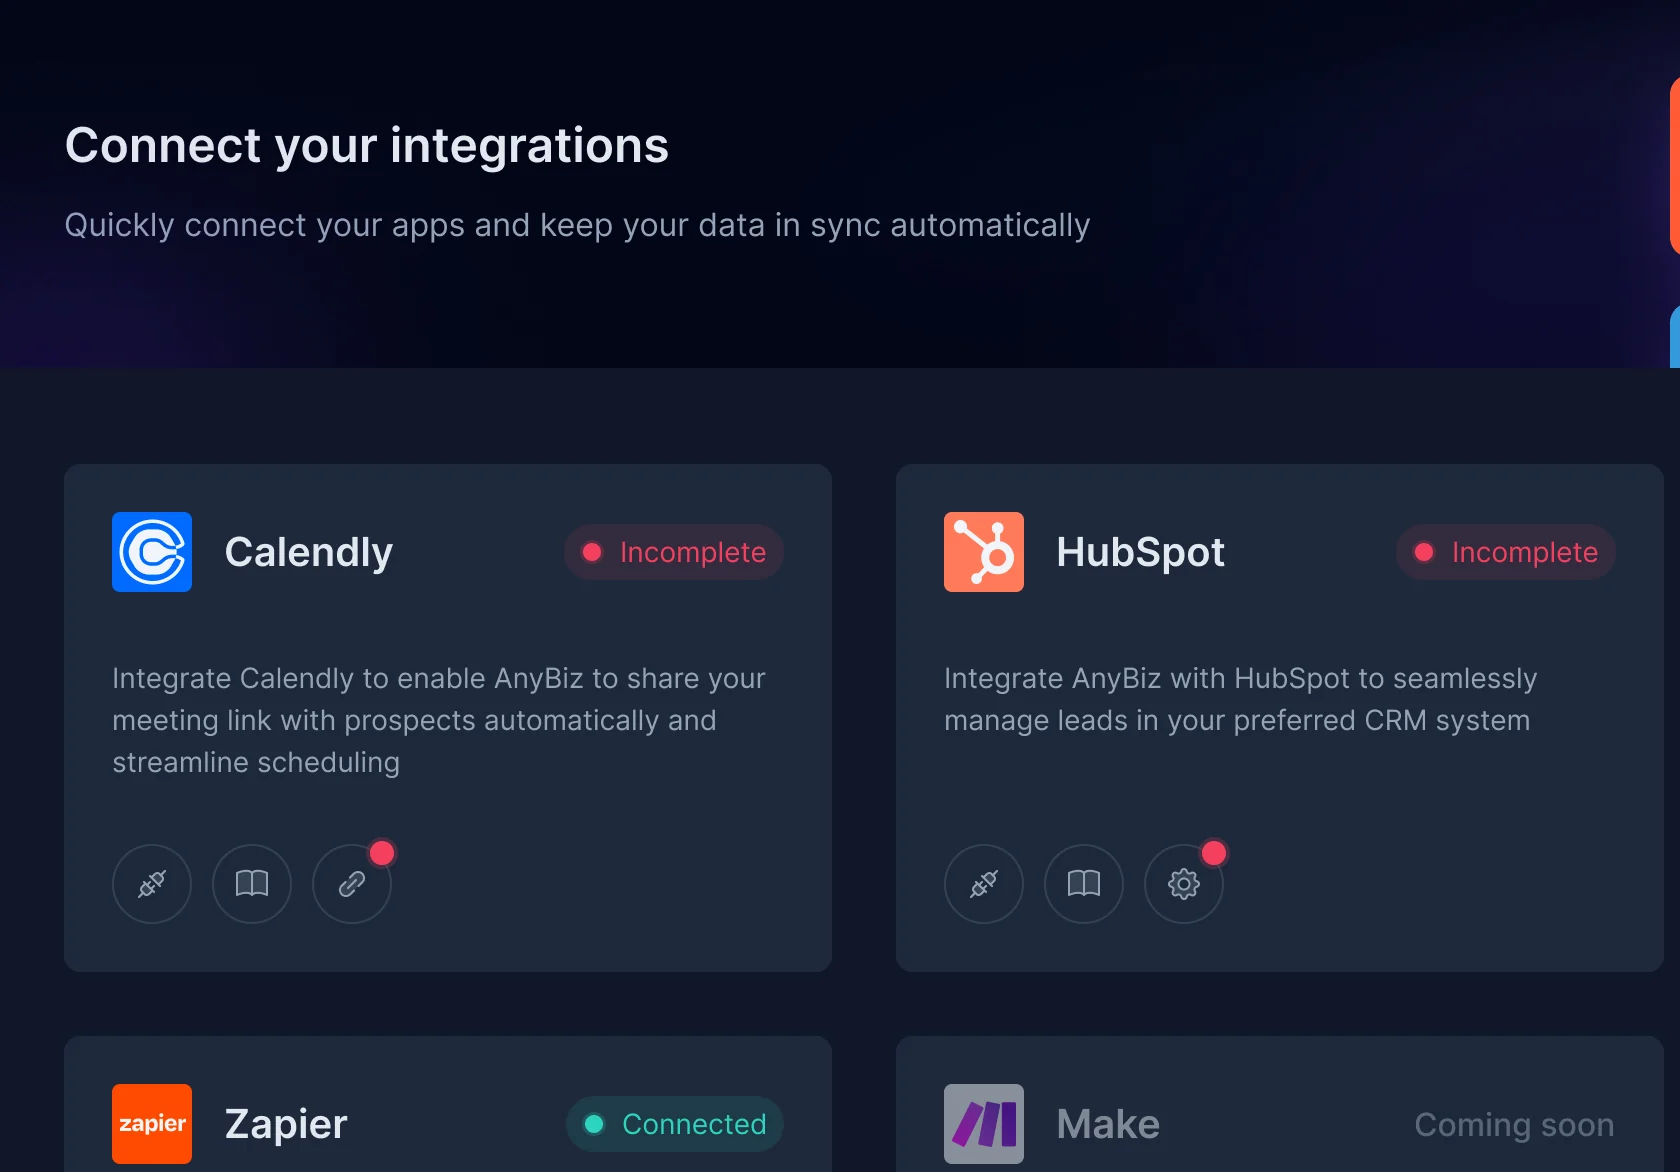
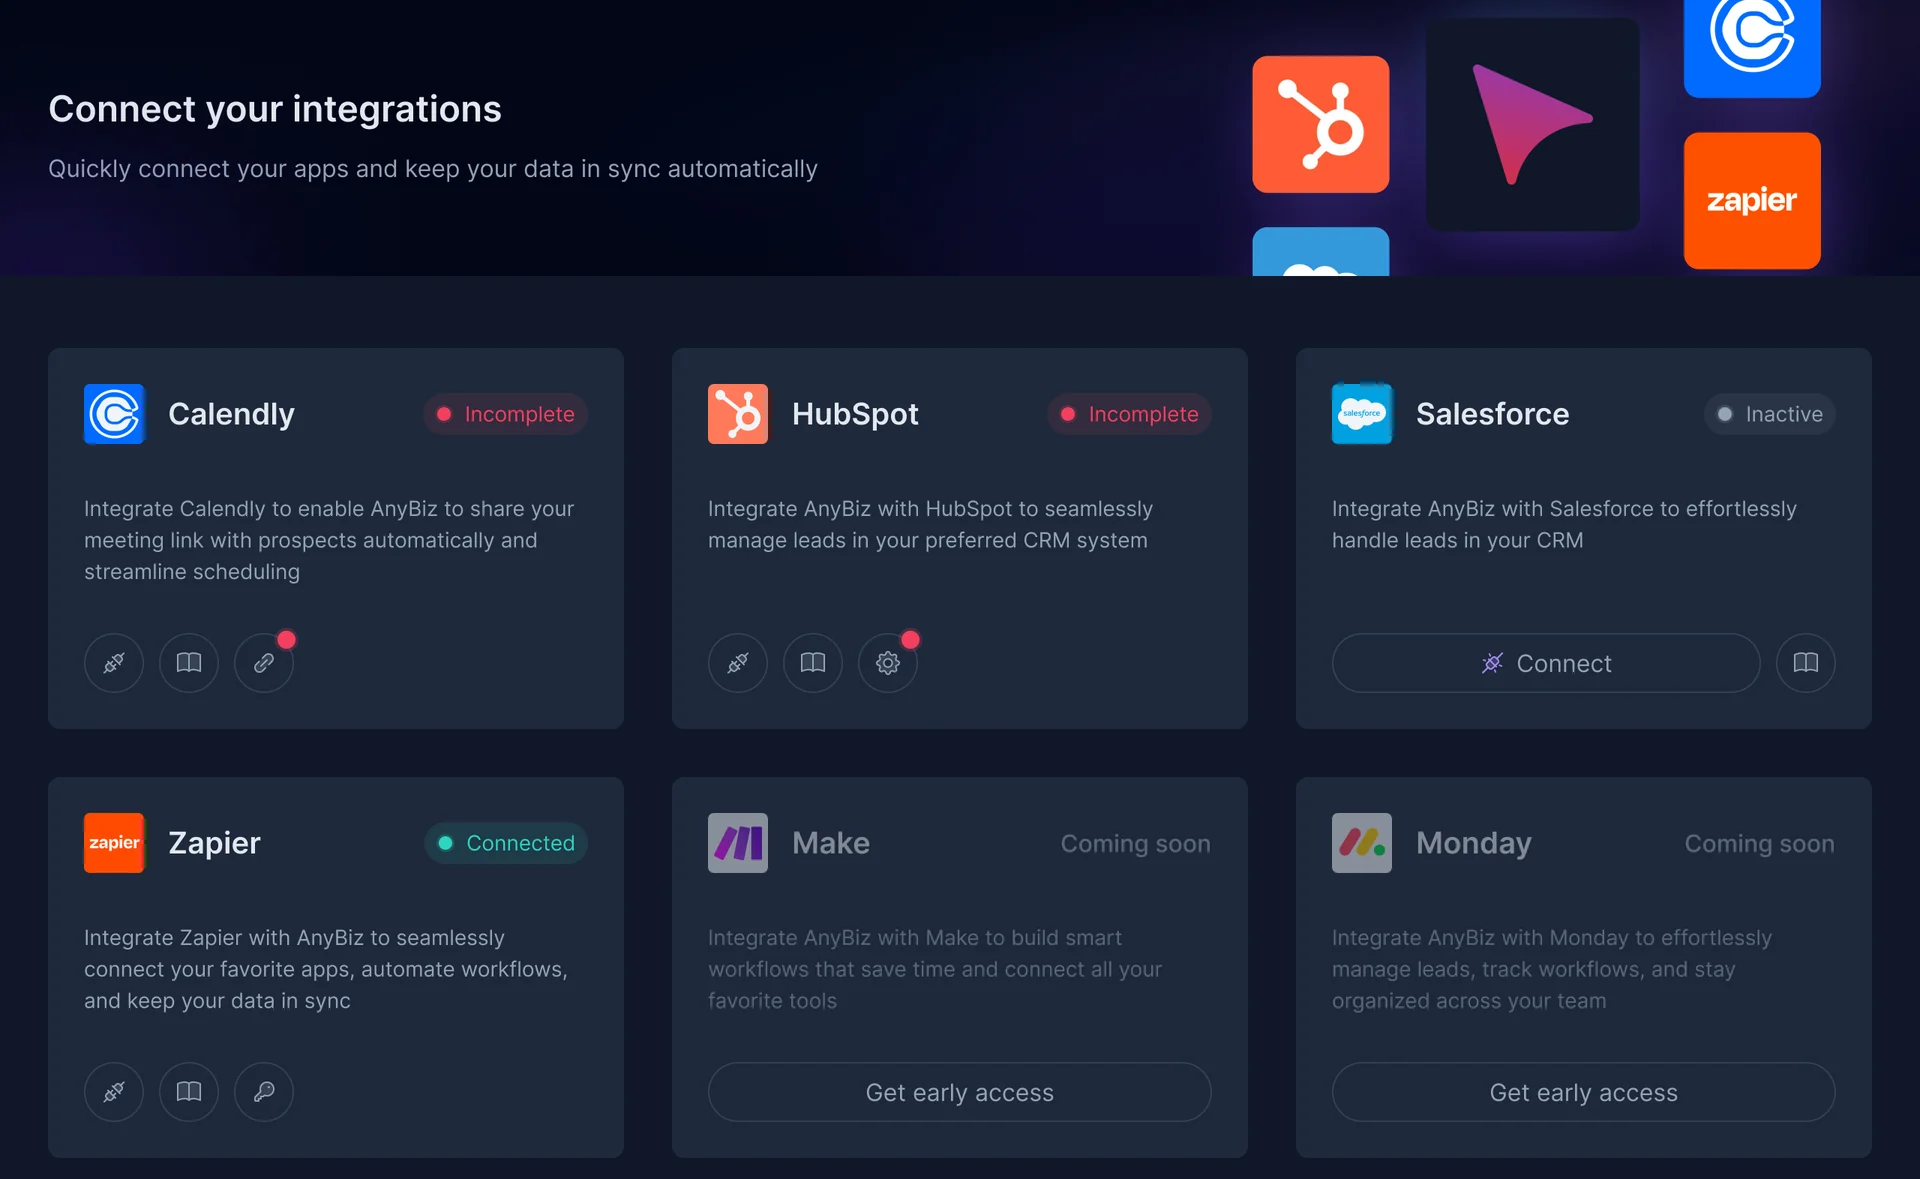
AnyBiz integrations: the whole width of the screen fits inside the panel

diff --git a/AnyBiz.html b/AnyBiz.html
@@ -221,9 +221,9 @@ h1{font-size:clamp(34px,5.6vw,80px);line-height:1.03;letter-spacing:-.045em}
 .kv{display:flex;gap:28px}.kv b{font-size:22px;font-weight:600;letter-spacing:-.02em;margin-top:2px}
 @media (max-width:560px){.ui{height:300px}.dk{font-size:13px;padding:12px 14px;width:92% !important}.dk[style*="right:0"]{right:0}.sched{grid-template-columns:auto 1fr auto}.sched .pill:last-child{display:none}}
 .g .fpanel{overflow:hidden}
-/* the Integrations screen, cropped so it reads, in the dark browser on the grey panel; it runs off the right edge */
-.g .fpanel.ipanel{padding:clamp(24px,4vw,56px) 0 clamp(24px,4vw,56px) clamp(24px,4vw,56px)}
-.ipanel .browser{border-radius:10px 0 0 10px}
+/* the Integrations screen, its full width, in the dark browser on the grey panel */
+.g .fpanel.ipanel{padding:clamp(20px,3vw,40px)}
+.ipanel .browser{box-shadow:0 2px 6px rgba(15,23,42,.08),0 40px 70px -36px rgba(15,23,42,.5)}
 .ipanel img{display:block;width:100%}
 
 /* 5. research: three outcomes, big numbers */
@@ -550,7 +550,7 @@ footer .wrap{display:flex;justify-content:space-between;gap:16px;flex-wrap:wrap}
       <div class="cap c1-4 end rv"><h3>Why users stay</h3><p>Integrations are a big part of why many users love AnyBiz: their CRM, calendar, automation and messaging tools work from one place, and leads, meetings and replies stay in sync on their own.</p><p>I designed every integration as one pattern, so a new one never needs a new idea: a status (Connected, Incomplete, Inactive, Coming soon), one button to connect, the docs a click away, and early access for what is next.</p></div>
       <figure class="c5-12 rv" style="--d:.1s">
         <div class="fpanel ipanel"><div class="browser"><div class="bar" aria-hidden="true"><i></i><i></i><i></i><span>app.anybiz.io</span></div>
-          <img src="assets/work/anybiz/integrations-app.webp" alt="Connect your integrations: Quickly connect your apps and keep your data in sync automatically. Cards for Calendly and HubSpot, both Incomplete, each with a short description and buttons to connect, read the docs and open the settings." width="1680" height="1172" loading="lazy"></div></div>
+          <img src="assets/work/anybiz/integrations-app.webp" alt="Connect your integrations: Quickly connect your apps and keep your data in sync automatically. Cards for Calendly and HubSpot (Incomplete) and Salesforce (Inactive, with Connect), and the top of the next row: Zapier (Connected), Make and Monday (Coming soon)." width="1920" height="1179" loading="lazy"></div></div>
       </figure>
     </div>
   </section>

diff --git a/tools/anybiz/export_assets.py b/tools/anybiz/export_assets.py
@@ -75,7 +75,7 @@ def main():
     crops = {
         "personas-app": (Image.open(RAW / "personas.jpg").convert("RGB"), (0, 0, 2560, 1600), 1600),
         "performance-app": (Image.open(RAW / "perf-app.jpg").convert("RGB"), (0, 0, 2560, 1600), 1600),
-        "integrations-app": (Image.open(RAW / "integrations.jpg").convert("RGB"), (0, 128, 1680, 1300), 1680),
+        "integrations-app": (Image.open(RAW / "integrations.jpg").convert("RGB"), (0, 128, 2560, 1700), 1920),
         "deliverability-app": (Image.open(RAW / "deliverability.png").convert("RGB"), (0, 0, 2560, 1600), 1600),
         "phone-menu": (mobile, (762, 540, 1500, 1992), 600),
         "phone-settings": (mobile, (1702, 292, 2448, 1912), 600),

diff --git a/anybiz.md b/anybiz.md
@@ -61,7 +61,7 @@ Two cards of separate UI pieces in the product's dark style on the pale panel, t
 Headline: The tools our users already love, *in one place*
 Two rows of integration pills sliding in opposite directions (Ramos pill marquee): HubSpot, Salesforce, Zapier, Calendly, Make, Monday, SalesLoft, Asana, Slack, Intercom, LinkedIn, Gmail, Outlook, WhatsApp, Warmy. Each pill carries a small monogram in the tool's colour (no logos).
 Text left: Integrations are a big part of why many users love AnyBiz: their CRM, calendar, automation and messaging tools work from one place, and leads, meetings and replies stay in sync on their own. I designed every integration as one pattern, so a new one never needs a new idea: a status (Connected, Incomplete, Inactive, Coming soon), one button to connect, the docs a click away, and early access for what is next.
-Right, the Integrations screen (247:78229) cropped so it reads (the banner "Connect your integrations" and the Calendly and HubSpot cards, `integrations-app.webp`), in the dark browser frame on the grey panel, running off its right edge (her request, 2026-10-22; replaced the three integration cards drawn in HTML).
+Right, the Integrations screen (247:78229) cropped so it reads (the banner "Connect your integrations" and the Calendly and HubSpot cards, `integrations-app.webp`), in the dark browser frame on the grey panel, running off its right edge (her request, 2026-10-22; replaced the three integration cards drawn in HTML). Then (her request, the same day: a little smaller, so it fits) the whole width of the screen, the banner with the logo tiles, the first row and the top of the second, inside the panel with a margin all round.
 
 
 ### 4. My part (her role and what she did; Research, Key insight and Behaviour now sit inside it, each under a thin sub-head)
